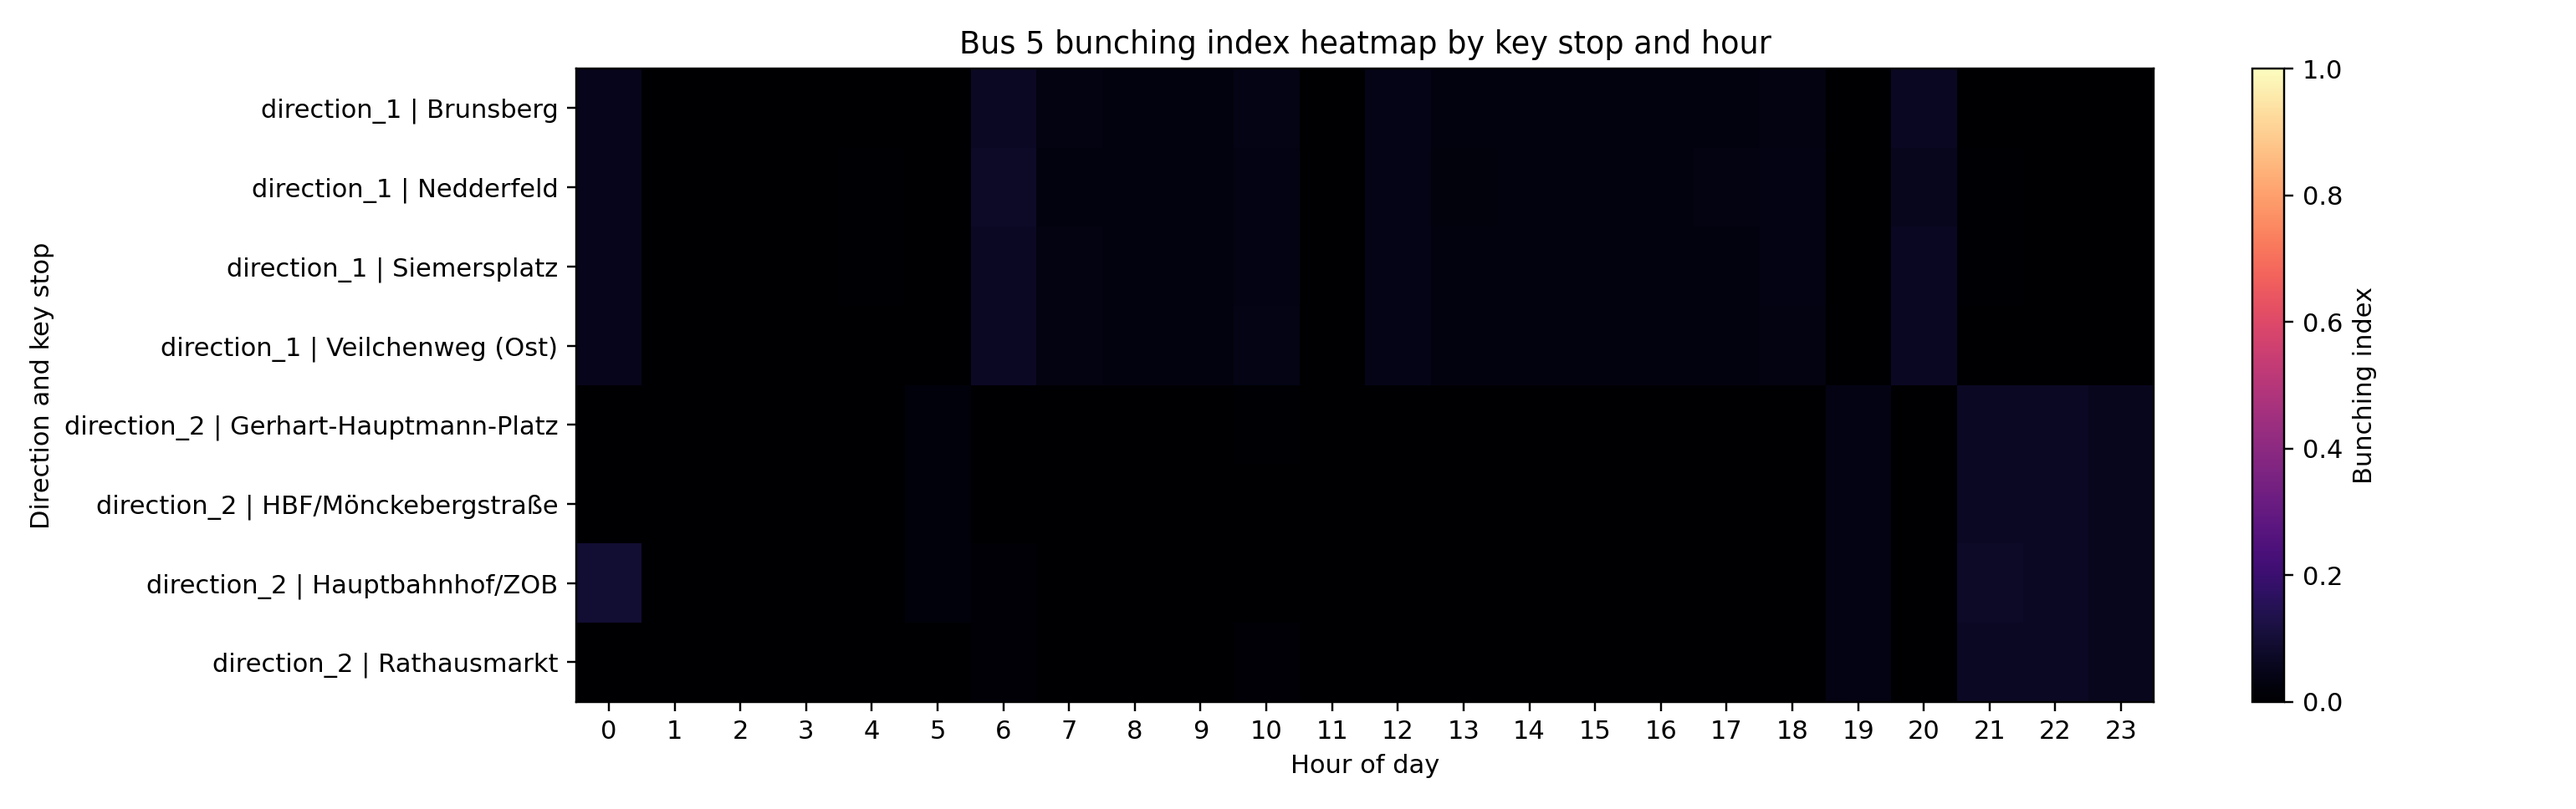
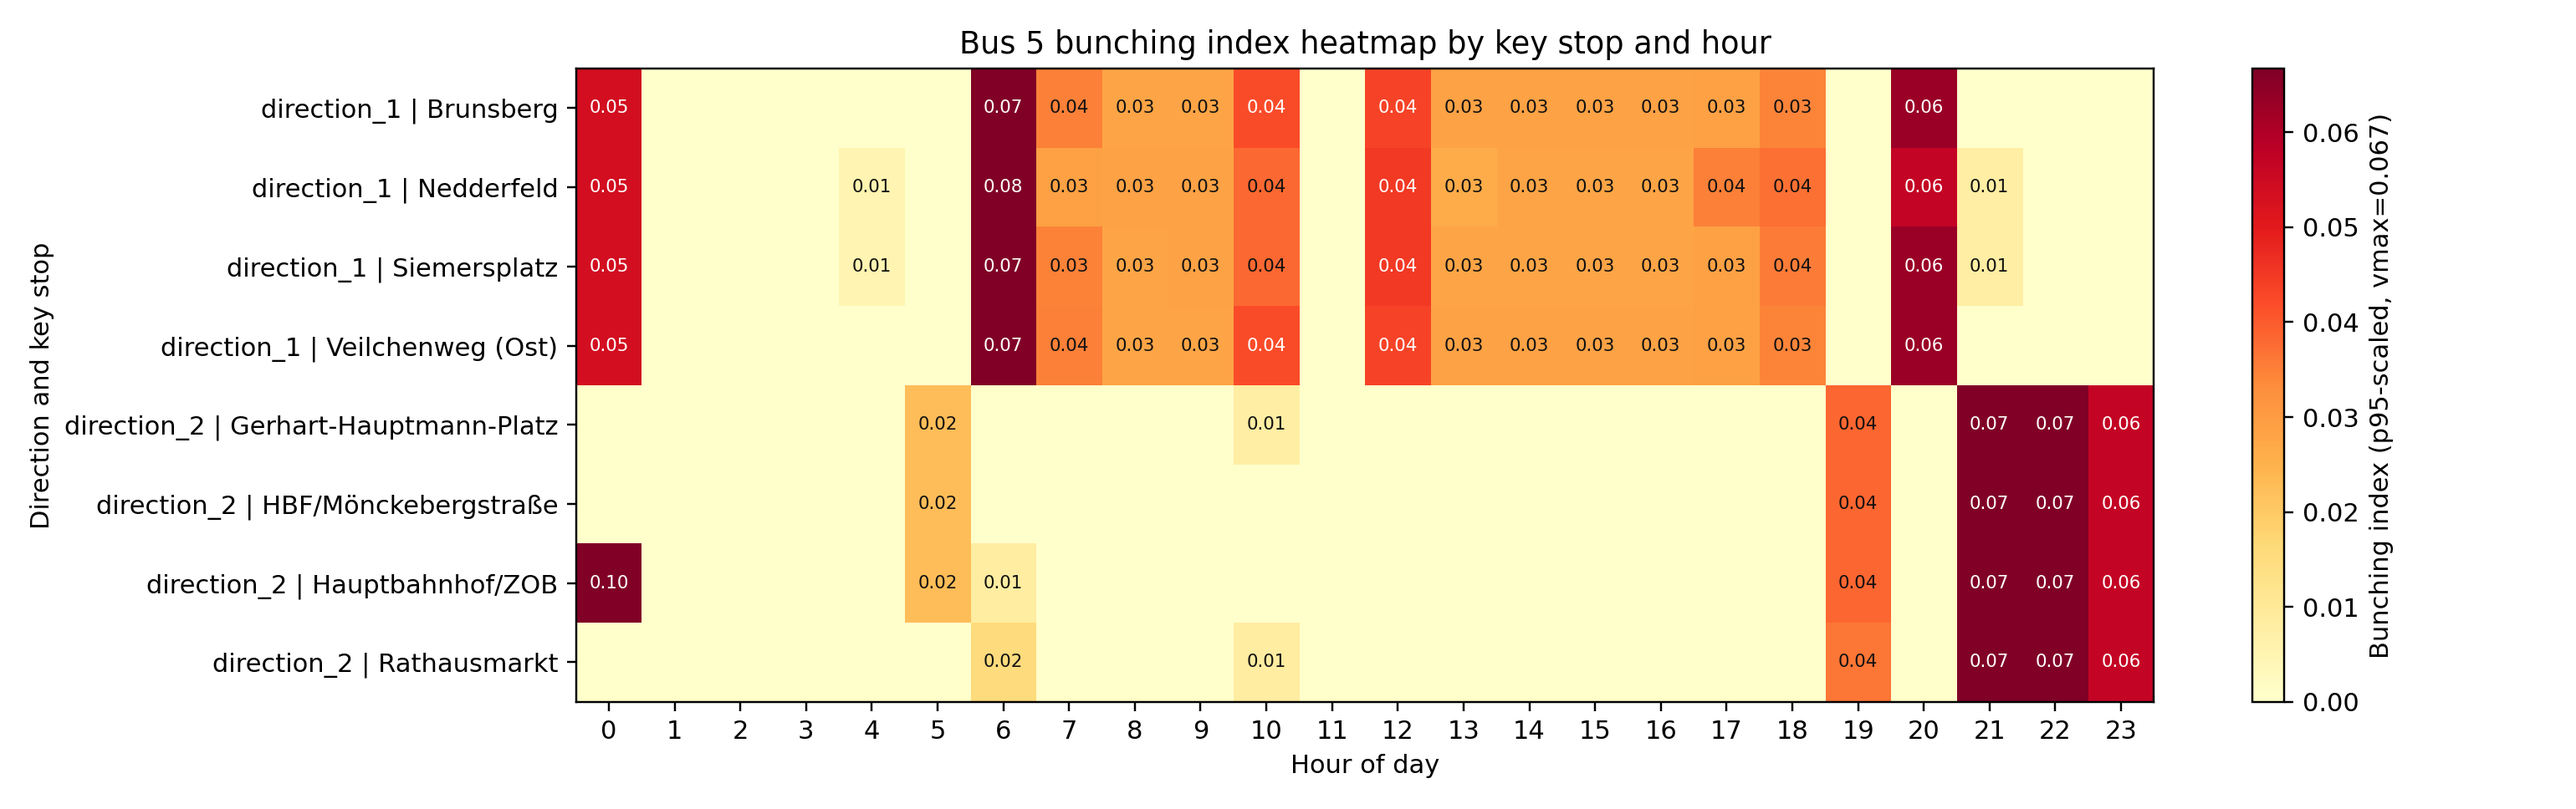
Enhance heatmap visualization by applying p95 scaling and annotating non-zero values

diff --git a/bus5bunching.py b/bus5bunching.py
@@ -412,15 +412,32 @@ def plot_key_stop_heatmap(
         row = [float(metrics[key][h]["bunching_index"]) for h in range(24)]
         matrix.append(row)
 
+    values = [value for row in matrix for value in row]
+    sorted_values = sorted(values)
+    if sorted_values:
+        p95_index = int(round(0.95 * (len(sorted_values) - 1)))
+        vmax = max(sorted_values[p95_index], 0.01)
+    else:
+        vmax = 1.0
+
     fig, ax = plt.subplots(figsize=(14, max(4, len(rows) * 0.55)))
-    image = ax.imshow(matrix, aspect="auto", cmap="magma", vmin=0, vmax=1)
+    image = ax.imshow(matrix, aspect="auto", cmap="YlOrRd", vmin=0, vmax=vmax)
     ax.set_title("Bus 5 bunching index heatmap by key stop and hour")
     ax.set_xlabel("Hour of day")
     ax.set_ylabel("Direction and key stop")
     ax.set_xticks(list(range(24)))
     ax.set_yticks(list(range(len(labels))))
     ax.set_yticklabels(labels)
-    fig.colorbar(image, ax=ax, label="Bunching index")
+
+    # Annotate non-zero cells to make subtle differences readable.
+    for y, row in enumerate(matrix):
+        for x, value in enumerate(row):
+            if value <= 0:
+                continue
+            text_color = "#111111" if value < vmax * 0.6 else "white"
+            ax.text(x, y, f"{value:.2f}", ha="center", va="center", fontsize=7, color=text_color)
+
+    fig.colorbar(image, ax=ax, label=f"Bunching index (p95-scaled, vmax={vmax:.3f})")
     fig.tight_layout()
     fig.savefig(path, dpi=220)
     plt.close(fig)
